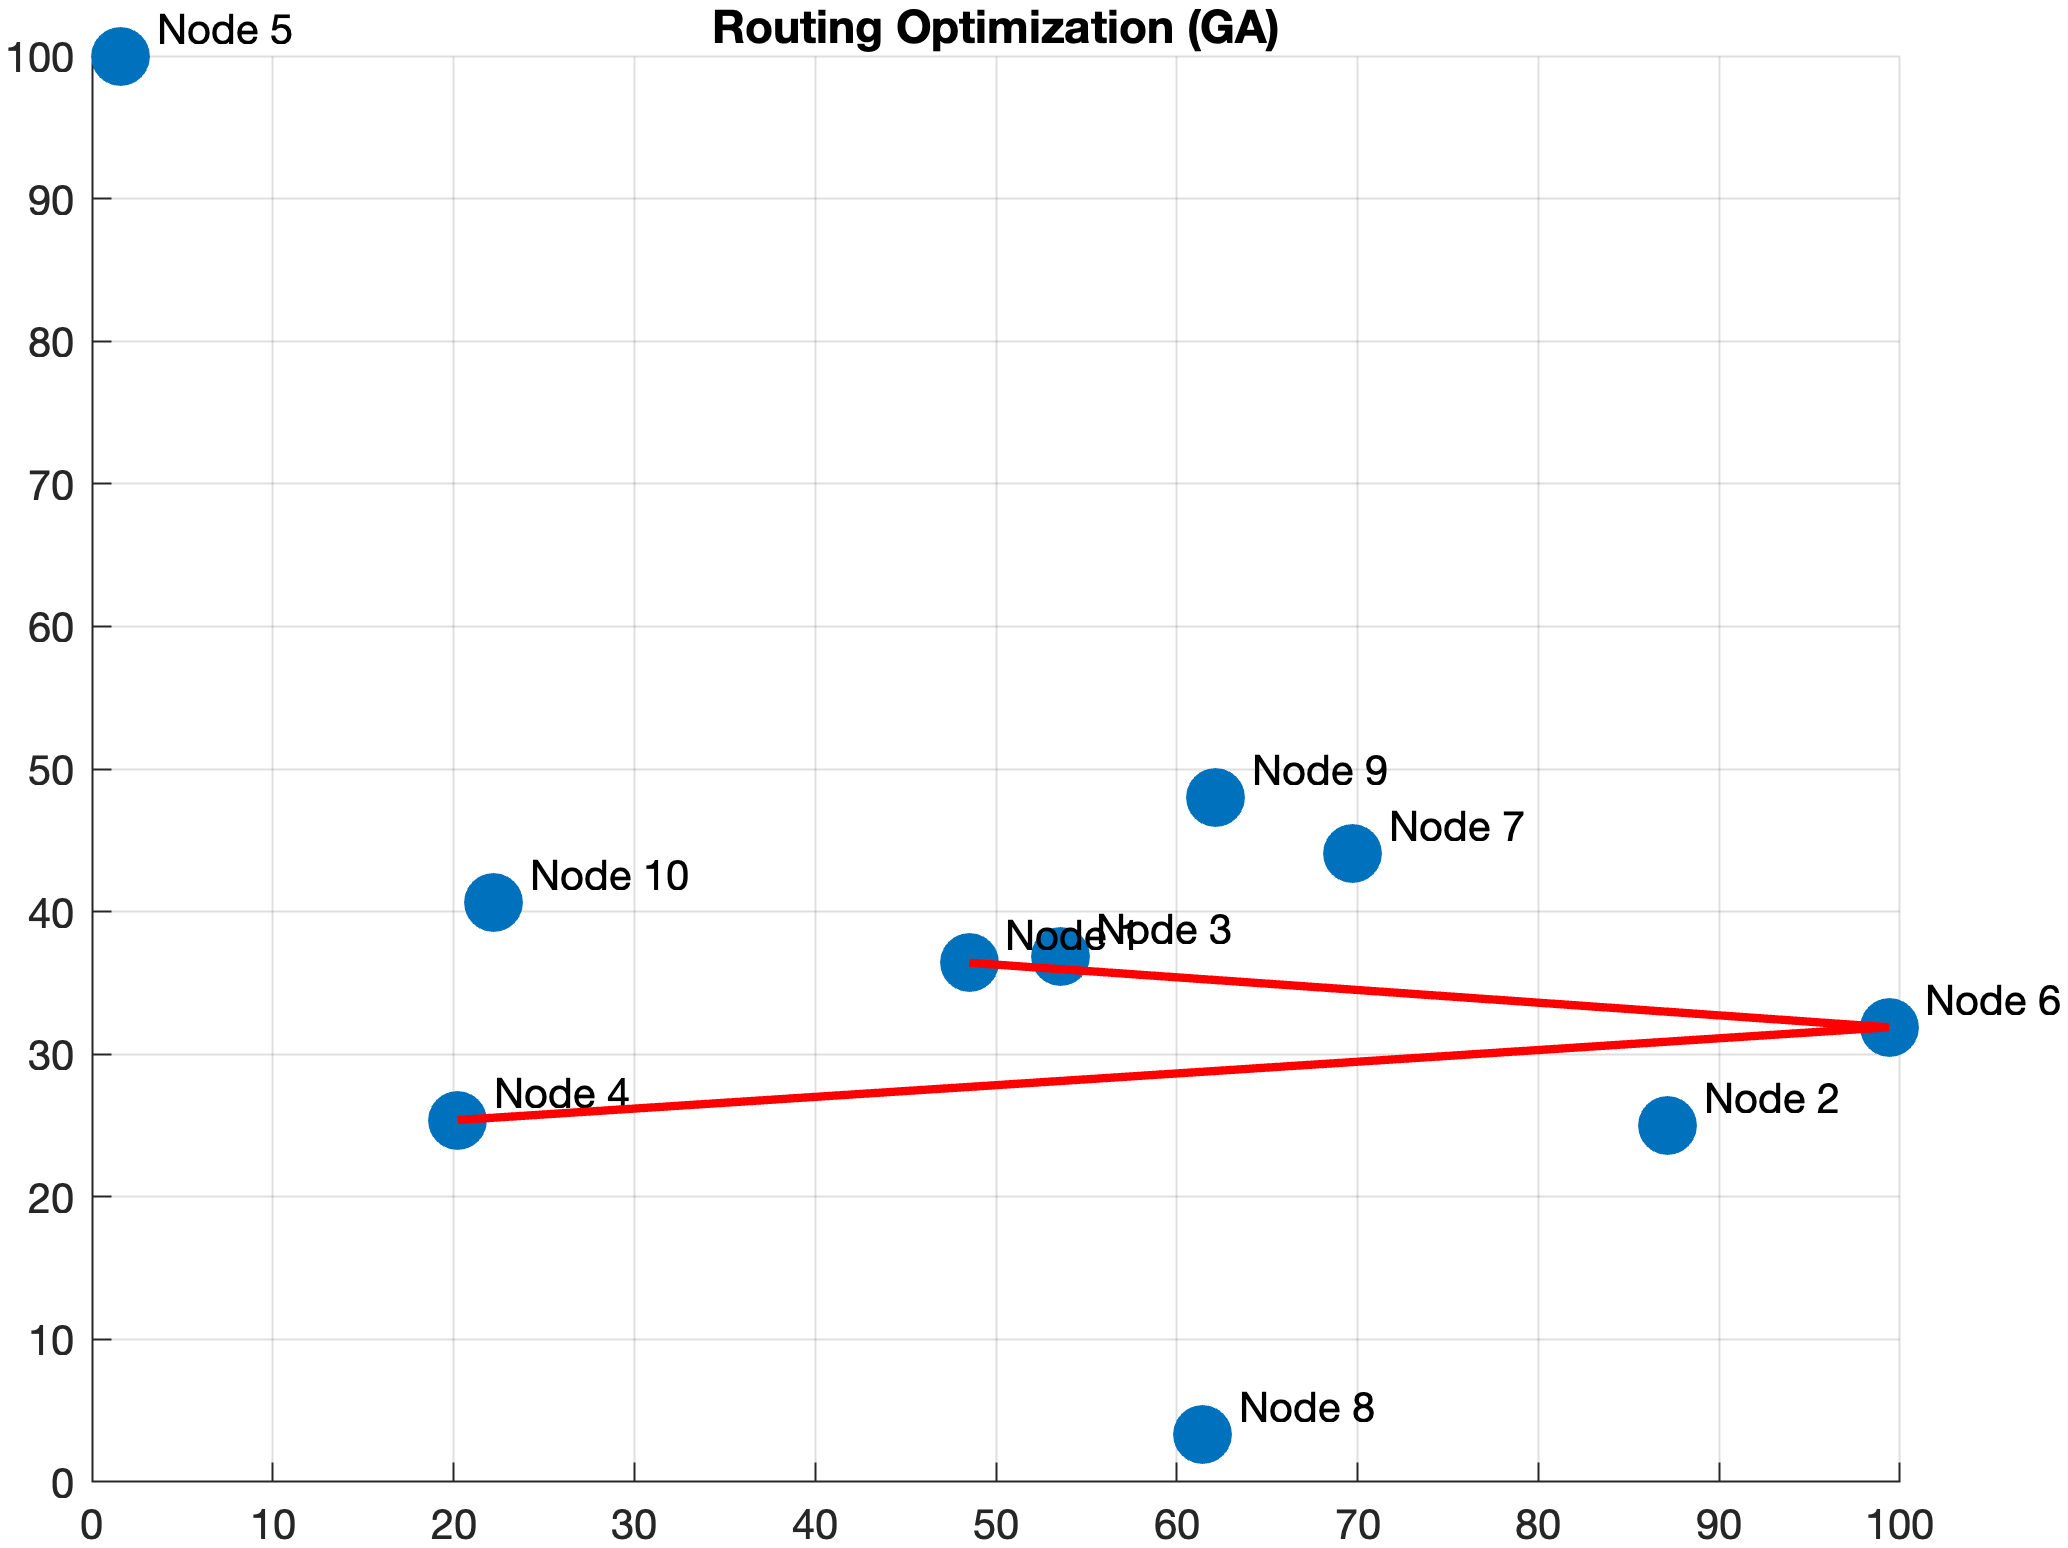
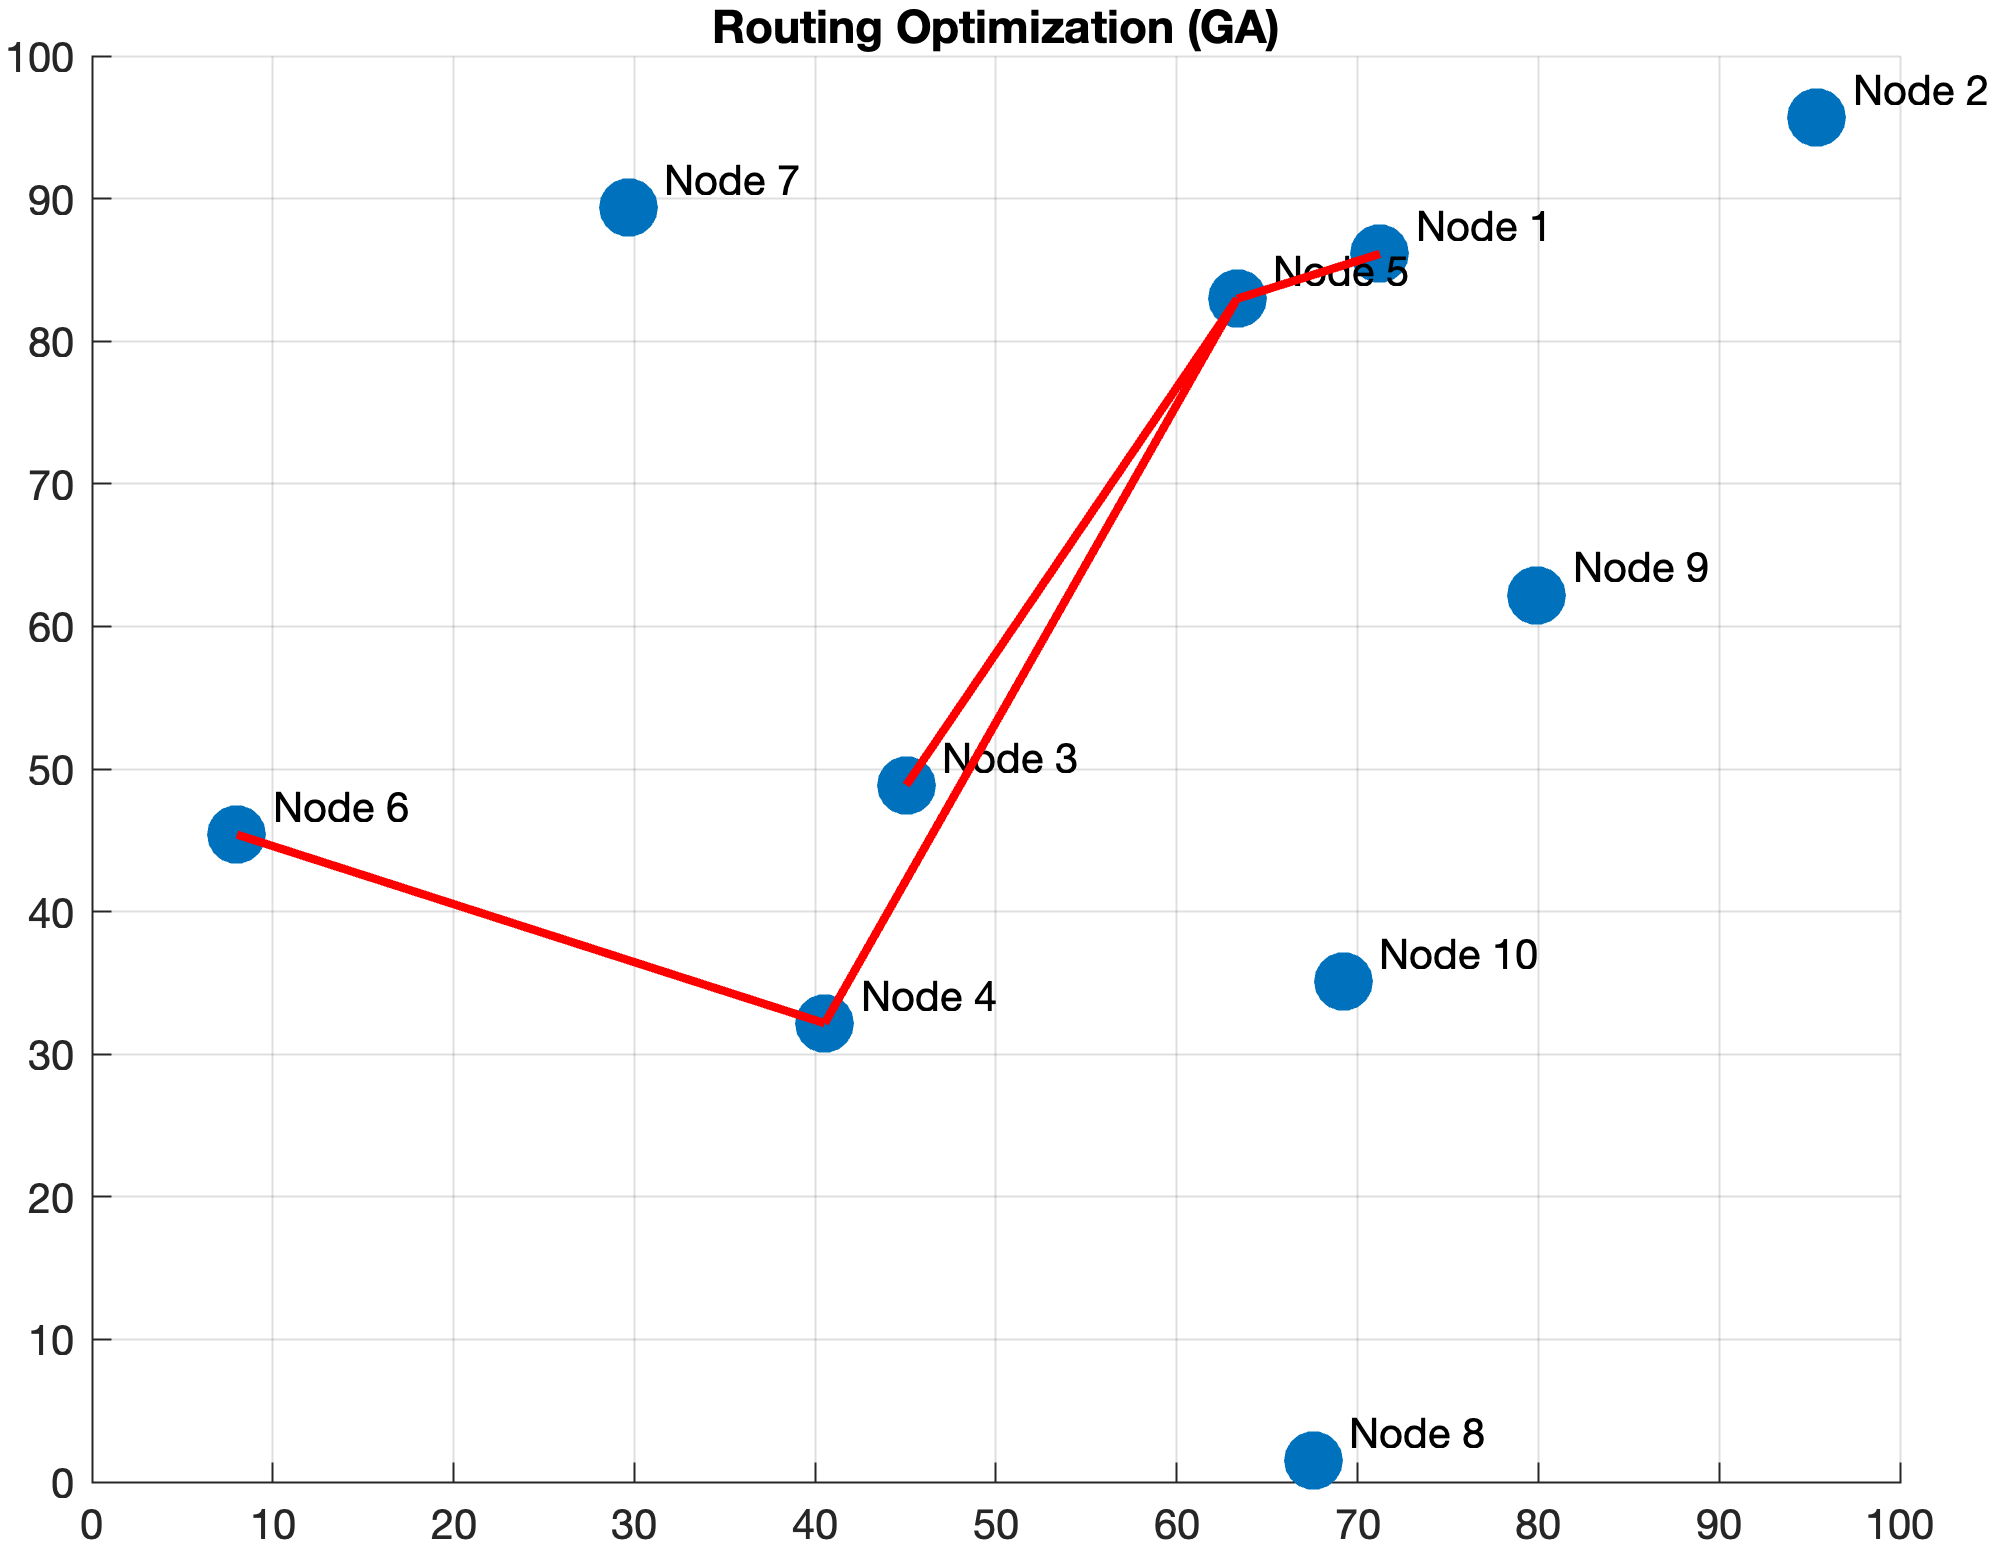
Add traffic-aware cost with outputs, needs config

diff --git a/final/fitness_routing.m b/final/fitness_routing.m
@@ -1,13 +1,20 @@
-function score = fitness_routing(route, coords)
+function score = fitness_routing(route, coords, traffic)
 
 n = size(coords,1);
 
-% Round to nearest integer node index
+% Round to integer
 route = round(route);
 
-% Force start and end nodes
-route(1) = 1;     % source
-route(end) = 6;   % destination
+% Clamp values (extra safety)
+route(route < 1) = 1;
+route(route > n) = n;
+
+% Remove duplicates
+route = unique(route, 'stable');
+
+% Ensure start and end nodes
+route(1) = 1;
+route(end) = 6;
 
 maxDist = 40;
 
@@ -28,7 +35,9 @@ for i = 1:length(route)-1
     % Compute distance
     d = norm(coords(nodeA,:) - coords(nodeB,:));
 
-    totalCost = totalCost + d;
+    % Traffic-aware cost
+    trafficWeight = (traffic(nodeA) + traffic(nodeB)) / 2;
+    totalCost = totalCost + d * trafficWeight;
 
     % Connectivity constraint
     if d > maxDist
@@ -37,9 +46,10 @@ for i = 1:length(route)-1
 end
 
 % Penalize repeated nodes (bad routing)
-if length(unique(route)) < length(route)
+if length(route) < 3
     penalty = penalty + 500;
 end
 
 score = totalCost + penalty;
+
 end

diff --git a/final/main.m b/final/main.m
@@ -26,8 +26,9 @@ options = gaoptimset(...
 %% Run Genetic Algorithm
 % Calls custom fitness function to evaluate solutions
 coords = rand(nNodes, 2) * 100;   % fixed node positions
+traffic = randi([1 5], nNodes, 1);
 
-fitnessFcn = @(x) fitness_routing(x, coords);
+fitnessFcn = @(x) fitness_routing(x, coords, traffic);
 [x_best, fval] = ga(fitnessFcn, nvars, [], [], [], [], ...
     ones(1,nvars), nNodes*ones(1,nvars), [], options);
 